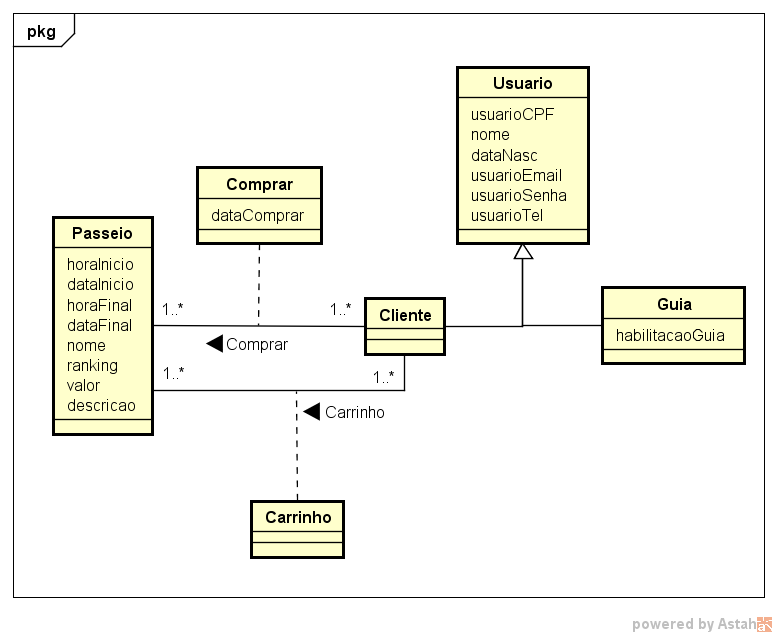
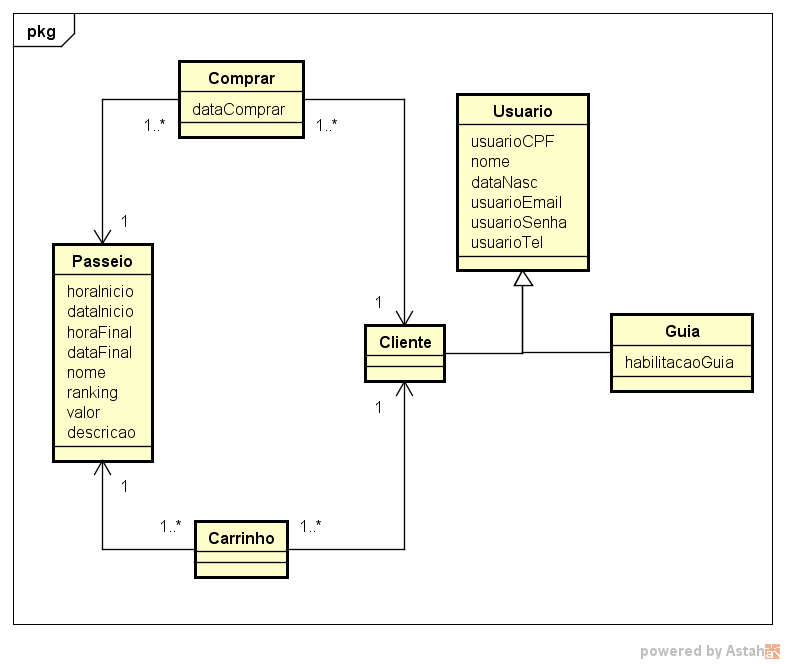
Grandes Mudanças 2

diff --git a/scripts/criarCardsCarrinho.php b/scripts/criarCardsCarrinho.php
@@ -8,7 +8,7 @@ $url = explode("/source", $_SERVER['REQUEST_URI'])[0];
 if (isset($_SESSION['clienteCPF'])){
     $clienteCPF = $_SESSION['clienteCPF'];
     
-    function getCard($imgSource, $altImg, $nome, $zIndex, $ranking, $cardDir, $valor) {
+    function getCard($imgSource, $altImg, $nome, $cardDir, $idCarrinho, $valor) {
         global $url;
         $cardTemplate = "
         <div class=\"cardCarrinho\">
@@ -17,7 +17,7 @@ if (isset($_SESSION['clienteCPF'])){
                 <div class=\"nomeCard\">$nome</div>
                 <div>Valor: <b>$valor</b></div>
             </div>" . 
-            "<button class=\"retirarDoCarrinho\" onclick=\"window.location.href='" . $url . "/scripts/delCarrinho.php/?cardDir=" . $cardDir . "'\"" . ">
+            "<button class=\"retirarDoCarrinho\" onclick=\"window.location.href='" . $url . "/scripts/delCarrinho.php/?idCarrinho=" . $idCarrinho . "'\"" . ">
                 <svg xmlns=\"http://www.w3.org/2000/svg\" width=\"16\" height=\"16\" fill=\"currentColor\" class=\"bi bi-trash\" viewBox=\"0 0 16 16\">
                     <path d=\"M5.5 5.5A.5.5 0 0 1 6 6v6a.5.5 0 0 1-1 0V6a.5.5 0 0 1 .5-.5m2.5 0a.5.5 0 0 1 .5.5v6a.5.5 0 0 1-1 0V6a.5.5 0 0 1 .5-.5m3 .5a.5.5 0 0 0-1 0v6a.5.5 0 0 0 1 0z\"/>
                     <path d=\"M14.5 3a1 1 0 0 1-1 1H13v9a2 2 0 0 1-2 2H5a2 2 0 0 1-2-2V4h-.5a1 1 0 0 1-1-1V2a1 1 0 0 1 1-1H6a1 1 0 0 1 1-1h2a1 1 0 0 1 1 1h3.5a1 1 0 0 1 1 1zM4.118 4 4 4.059V13a1 1 0 0 0 1 1h6a1 1 0 0 0 1-1V4.059L11.882 4zM2.5 3h11V2h-11z\"/>
@@ -33,7 +33,7 @@ if (isset($_SESSION['clienteCPF'])){
         global $conn;
         global $clienteCPF;
 
-        $cards = $conn->query("select Carrinho.idPasseio, horaInicio, dataInicio, horaFinal, dataFinal, nome, ranking, valor, imgSource, altImg, cardDir, descricao from Passeio, Carrinho where Passeio.idPasseio = Carrinho.idPasseio and clienteCPF = $clienteCPF");
+        $cards = $conn->query("select Carrinho.idPasseio, horaInicio, dataInicio, horaFinal, dataFinal, nome, ranking, valor, imgSource, altImg, cardDir, idCarrinho, descricao from Passeio, Carrinho where Passeio.idPasseio = Carrinho.idPasseio and clienteCPF = $clienteCPF");
 
         $cardsArray = [];
         while ($row = $cards->fetch_assoc()) {
@@ -47,7 +47,7 @@ if (isset($_SESSION['clienteCPF'])){
     $cardData = [];
 
     foreach ($cardsArray as $card) {
-        array_push($cardData, getCard($card['imgSource'], $card['altImg'], $card['nome'], $zIndex--, $card['ranking'], $card['cardDir'], $card['valor']));
+        array_push($cardData, getCard($card['imgSource'], $card['altImg'], $card['nome'], $card['cardDir'], $card['idCarrinho'], $card['valor']));
     }
 
 } else if (isset($_SESSION['guiaCPF'])){

diff --git a/source/passeios/mostraPasseio.php b/source/passeios/mostraPasseio.php
@@ -59,7 +59,7 @@ echo "
                 <a href=\"./../../categorias.php\" class=\"linkNav\">Categorias</a>
                 <a href=\"./../../carrinho.php\" class=\"linkNav\">Carrinho$numItensCarrinho</a>
                 <a href=\"./../../quemSomos.php\" class=\"linkNav\">Quem Somos</a>
-                <a href=\"./historico.php\" class=\"linkNav\">Histórico</a>
+                <a href=\"./../../historico.php\" class=\"linkNav\">Histórico</a>
                 <a href=\"./../../../scripts/sair.php\" class=\"linkNav\">Sair</a>
             </nav>
             </header>";
@@ -130,7 +130,7 @@ echo "<section class=\"sectionPasseio\">
                     <div class=\"preco\"><p>Preço: <b>R$ $valor</b></p></div>
                     <p>Hora e data de início do passeio: às <b>$horaInicio</b> do dia <b>$dataInicio</b></p>
                     <p>Hora e data de encerramento do passeio: às <b>$horaFinal</b> do dia <b>$dataFinal</b></p>
-                    <button id=\"addCarrinho\">Adcionar ao Carrinho</button>
+                    <button id=\"addCarrinho\">Adicionar ao Carrinho</button>
                 </div>
 
         </section>

diff --git a/source/historico.php b/source/historico.php
@@ -36,7 +36,7 @@ echo "
             <nav class=\"menuNav\">
                 <a href=\"./\" class=\"linkNav\">Home</a>
                 <a href=\"./categorias.php\" class=\"linkNav\">Categorias</a>
-                <a href=\"./carrinho.php\" class=\"linkNav\">Carrinho<?php echo $numItensCarrinho?></a>
+                <a href=\"./carrinho.php\" class=\"linkNav\">Carrinho$numItensCarrinho</a>
                 <a href=\"./quemSomos.php\" class=\"linkNav\">Quem Somos</a>
                 <a href=\"./historico.php\" class=\"linkNav\">Histórico</a>
                 <a href=\"./../scripts/sair.php\" class=\"linkNav\">Sair</a>

diff --git a/scripts/delCarrinho.php b/scripts/delCarrinho.php
@@ -4,11 +4,10 @@ include './../banco/banco.php';
 include 'funcoesUniversais.php';
 
 $url = explode("/scripts", $_SERVER['REQUEST_URI'])[0];
-$cardDir = $queryParameters["cardDir"];
+$idCarrinho = $queryParameters["idCarrinho"];
 
-$idPasseio = $conn->query("select idPasseio from passeio where cardDir = '$cardDir'")->fetch_assoc()["idPasseio"];
-
-if ($conn->query("delete from carrinho where idPasseio = '$idPasseio'")){
+if ($conn->query("delete from carrinho where idCarrinho = '$idCarrinho'")){
+    echo "oi";
     header("location: $url/source/carrinho.php");
     exit();
 }

diff --git a/banco/migracoes/schema.php b/banco/migracoes/schema.php
@@ -50,6 +50,7 @@ create table if not exists Cliente(
 );
 
 create table if not exists Comprar (
+	idComprar bigInt primary key AUTO_INCREMENT,
 	clienteCPF char(11),
 	idPasseio int(11),
 	dataCompra date not null,
@@ -58,9 +59,9 @@ create table if not exists Comprar (
 );
 
 create table if not exists Carrinho(
+	idCarrinho bigInt primary key AUTO_INCREMENT,
 	clienteCPF char(11) not null,
 	idPasseio int(11) not null,
-	primary key(clienteCPF, idPasseio),
 	foreign key (clienteCPF) references Cliente(clienteCPF),
 	foreign key (idPasseio) references Passeio(idPasseio)
 )

diff --git a/source/criarConta.php b/source/criarConta.php
@@ -100,7 +100,7 @@ echo "<section>
             <h1 class=\"inicio\">
                 Criar Conta
             </h1>
-            <form class=\"loginSpace\" method=\"POST\" action=\"../scripts/addUsuario.php\">
+            <form class=\"loginSpace\" method=\"POST\" action=\"..$dirCar/scripts/addUsuario.php\">
                 <fieldset class=\"dadosUsuario\">
                 <legend>Insira seus dados:</legend>
                 

diff --git a/scripts/compraCarrinho.php b/scripts/compraCarrinho.php
@@ -13,7 +13,7 @@ $numPasseiosCarrinho = $passeiosCarrinho -> num_rows;
 
 for($i = 0; $i < $numPasseiosCarrinho; $i++){
     $idPass = ($passeiosCarrinho -> fetch_assoc())['idPasseio'];
-    if ($conn -> query("insert into Comprar values ('$cpfCliente', $idPass, '$dataAtual')")){
+    if ($conn -> query("insert into Comprar (clienteCPF, idPasseio, dataCompra) values ('$cpfCliente', $idPass, '$dataAtual')")){
     };
 };
 
